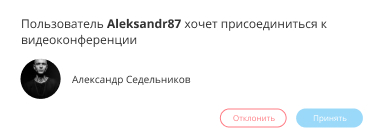
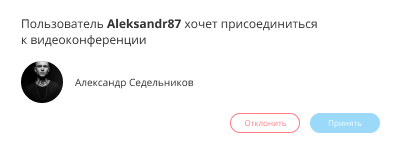
feat: верстка блока security tablet-версии

diff --git a/build/css/styles.min.css b/build/css/styles.min.css
@@ -1,2 +1,2 @@
-html{line-height:1.15;-webkit-text-size-adjust:100%;-moz-text-size-adjust:100%;text-size-adjust:100%}body{min-height:100vh;text-rendering:optimizeSpeed;line-height:1.5}blockquote,body,button,dd,dl,figure,h1,h2,h3,h4,input,optgroup,p,select,textarea{margin:0}details,main{display:block}h1{font-size:2em;margin:.67em 0}hr{box-sizing:content-box;height:0;overflow:visible}code,kbd,pre,samp{font-family:monospace;font-size:1em}a{background-color:transparent}abbr[title]{border-bottom:none;text-decoration:underline}b,strong{font-weight:bolder}small{font-size:80%}sub,sup{font-size:75%;line-height:0;position:relative;vertical-align:baseline}sub{bottom:-.25em}sup{top:-.5em}img{border-style:none}button,input,optgroup,select,textarea{font-family:inherit;font-size:100%;line-height:1.15}button,input{overflow:visible}button,select{text-transform:none}[type=button],[type=reset],[type=submit],button{-webkit-appearance:button;-moz-appearance:button;appearance:button}[type=button]::-moz-focus-inner,[type=reset]::-moz-focus-inner,[type=submit]::-moz-focus-inner,button::-moz-focus-inner{border-style:none;padding:0}[type=button]:-moz-focusring,[type=reset]:-moz-focusring,[type=submit]:-moz-focusring,button:-moz-focusring{outline:ButtonText dotted 1px}fieldset{padding:.35em .75em .625em}legend{box-sizing:border-box;color:inherit;display:table;max-width:100%;padding:0;white-space:normal}progress{vertical-align:baseline}textarea{overflow:auto}[type=checkbox],[type=radio]{box-sizing:border-box;padding:0}[type=number]::-webkit-inner-spin-button,[type=number]::-webkit-outer-spin-button{height:auto}[type=search]{-webkit-appearance:textfield;-moz-appearance:textfield;appearance:textfield;outline-offset:-2px}[type=search]::-webkit-search-decoration{-webkit-appearance:none;appearance:none}::-webkit-file-upload-button{-webkit-appearance:button;appearance:button;font:inherit}summary{display:list-item}[hidden],template{display:none}ol,ul{list-style:none;margin:0;padding:0}@font-face{font-family:Montserrat;font-style:normal;font-weight:700;font-display:swap;src:url(../fonts/montserrat-bold.eot);src:local("Montserrat"),url(../fonts/montserrat-bold.woff2) format("woff2"),url(../fonts/montserrat-bold.woff) format("woff"),url(../fonts/montserrat-bold.ttf) format("truetype"),url(../fonts/montserrat-bold.svg) format("svg")}@font-face{font-family:Montserrat;font-style:normal;font-weight:500;font-display:swap;src:local("Montserrat"),url(../fonts/montserrat-medium.woff2) format("woff2"),url(../fonts/montserrat-medium.woff) format("woff"),url(../fonts/montserrat-medium.ttf) format("truetype"),url(../fonts/montserrat-medium.svg) format("svg")}@font-face{font-family:Montserrat;font-weight:600;font-style:normal;font-display:swap;src:local("Ubuntu"),url(../fonts/montserrat-semibold.woff2) format("woff2"),url(../fonts/montserrat-semibold.woff) format("woff"),url(../fonts/montserrat-semibold.ttf) format("truetype"),url(../fonts/montserrat-semibold.svg) format("svg")}@font-face{font-family:"Open Sans";font-weight:900;font-style:normal;font-display:swap;src:local("Open Sans"),url(../fonts/opensans-regular.woff2) format("woff2"),url(../fonts/opensans-regular.woff) format("woff"),url(../fonts/opensans-regular.ttf) format("truetype"),url(../fonts/opensans-regular.svg) format("svg")}.visually-hidden{position:absolute;width:1px;height:1px;margin:-1px;border:0;padding:0;white-space:nowrap;-webkit-clip-path:inset(100%);clip-path:inset(100%);clip:rect(0 0 0 0);overflow:hidden}.container{padding:0 20px}@media (min-width:768px){.container{padding:0 50px}}.page__container{min-width:320px;background:linear-gradient(52deg,#5540bf 58%,#afa1f9 100%);max-width:1440px;margin:0 auto;box-shadow:0 0 50px 0 rgba(34,60,80,.2)}.header__navigation{display:flex;align-items:center;justify-content:space-between;padding:10px 0;box-sizing:border-box}@media (min-width:768px){.header__navigation{padding:24px 51px}.header__menu-button{display:none}}.header__menu-button{color:none;background-color:transparent;border:none;padding:5px}.footer{background-color:#fff}.footer__container{display:flex;flex-direction:column;flex-wrap:wrap;align-items:center;justify-content:center;row-gap:15px;padding:31px 0 0}.footer__paragraph{font-family:"Open Sans";font-weight:400;font-size:16px;line-height:22px;color:#5540bf;word-break:break-word;text-align:center}.footer__socials{display:flex;flex-direction:row;flex-wrap:wrap;align-items:center;justify-content:center;-moz-column-gap:20px;column-gap:20px}.footer__link{color:#5540bf;text-decoration:none}.logo{display:block;height:45px;width:45px}@media (min-width:768px){.logo{height:70px;width:70px}}.logo__image{width:100%}.menu{font-family:Montserrat;font-weight:500;font-size:14px;line-height:17px;color:#fff;word-break:break-word;display:none}@media (min-width:768px){.menu{display:block;max-width:300px}}.menu__list{display:flex;flex-direction:row;flex-wrap:wrap;align-items:center;justify-content:center;-moz-column-gap:31px;column-gap:31px}.menu__item{display:block}.menu__link{text-decoration:none;color:inherit}.menu__close{color:none;background-color:transparent;border:none}@media (min-width:768px){.menu__close{display:none}}.introduction{display:flex;flex-direction:column;flex-wrap:wrap;align-items:center;justify-content:center;row-gap:18px;padding-top:41px}.introduction__title{font-family:Montserrat;font-weight:700;font-size:24px;line-height:32px;color:#fff;word-break:break-word;margin:0 23px;text-align:center}@media (min-width:768px){.introduction{padding-top:91px;display:flex;flex-direction:row;flex-wrap:wrap;align-items:center;justify-content:center;-moz-column-gap:37px;column-gap:37px;padding-bottom:30px}.introduction__title{font-family:Montserrat;font-weight:700;font-size:46px;line-height:52px;color:#fff;word-break:break-word;margin:0 11%;text-align:center}}.introduction__paragraph{font-family:"Open Sans";font-weight:400;font-size:13px;line-height:20px;color:#fff;word-break:break-word;text-align:center;margin:29px 23px}.introduction__paragraph:nth-of-type(2){margin:0 23px}@media (min-width:768px){.introduction__paragraph:nth-of-type(2){font-family:"Open Sans";font-weight:400;font-size:14px;line-height:18px;color:#fff;word-break:break-word;text-align:center;margin:0 26%}.introduction__paragraph{font-family:"Open Sans";font-weight:400;font-size:20px;line-height:28px;color:#fff;word-break:break-word;text-align:center;margin:16px 14% 45px;width:100%}}.introduction__link{display:block;font-family:Montserrat;font-weight:600;outline:0;font-size:12px;line-height:15px;word-break:break-word;box-sizing:border-box;padding:13px;text-align:center;text-transform:uppercase;text-decoration:none;min-height:41px;border-radius:5px;width:222px}@media (min-width:768px){.introduction__link{padding:15px;width:185px}}.introduction__link--colored{color:#5540bf;background-color:#fff;border:none}.introduction__link--uncolored{color:#fff;background-color:transparent;border:1px solid #fff}.introduction__image-wrapper{width:100%;padding:53px 22px 64px;box-sizing:border-box}.introduction__image-block{position:relative;display:flex;flex-direction:column;flex-wrap:wrap;max-width:380px;max-height:1050px;margin:0 auto;row-gap:31px;z-index:1}.introduction__picture--1{align-self:flex-start}.introduction__picture--1::before{content:"";position:absolute;top:-16px;left:-24px;background-image:url(../images/dots-2.svg);background-repeat:no-repeat;width:101px;height:39px;z-index:-1}.introduction__picture--2{align-self:flex-end}.introduction__picture--2::before{content:"";position:absolute;bottom:-17px;right:-23px;background-image:url(../images/dots-1.svg);background-repeat:no-repeat;width:73px;height:59px;z-index:-1}.introduction__picture--2::after{content:"";position:absolute;bottom:141px;right:-23px;background-image:url(../images/figure-3.svg);background-repeat:no-repeat;width:102px;height:101px;z-index:-1}.introduction__picture--3{display:none}@media (min-width:768px){.introduction__image-wrapper{padding:71px 22px 150px}.introduction__image-block{max-width:465px}.introduction__picture--2{position:absolute;top:125px;right:-3px;z-index:-2}.introduction__picture--2::after{bottom:248px;right:-21px}.introduction__picture--3{display:block;position:absolute;bottom:-90px;left:71px}.introduction__picture--3::after{content:"";position:absolute;bottom:-18px;right:-23px;background-image:url(../images/dots-1.svg);background-repeat:no-repeat;width:73px;height:60px;z-index:-1}}.introduction__image--2{position:absolute;top:32%;left:50%;transform:translateX(-50%);min-width:140px;max-width:271px}.introduction__image--3{border-radius:5px}.introduction__image--4{border-radius:10px}.features{background:rgba(255,255,255,.1)}.features__list{display:flex;flex-direction:column;flex-wrap:wrap;align-items:center;justify-content:center;row-gap:14px;padding:38px 0}@media (min-width:768px){.introduction__image--2{top:68px;left:56%;max-width:140px}.features__list{display:flex;flex-direction:row;flex-wrap:wrap;align-items:center;justify-content:space-evenly;padding:73px 12px;row-gap:30px;-moz-column-gap:20px;column-gap:20px}}.features__item{font-family:Montserrat;font-weight:600;font-size:10px;line-height:12px;color:#fff;word-break:break-word;border:2px solid #fff;border-radius:100px;box-sizing:border-box;padding:16px;width:227px;text-align:center;text-transform:uppercase}.features__item--active{border:2px solid #ffd100;color:#ffd100}@media (min-width:768px){.features__item{width:auto;padding:18px 40px}}.group-calls{display:flex;flex-direction:column;flex-wrap:wrap;align-items:center;justify-content:center;background-color:#fff;background-image:url(../images/figure-1.svg);background-repeat:no-repeat;background-position:-350px -330px;background-size:cover;padding-top:46px;padding-bottom:57px}.group-calls__title{font-family:Montserrat;font-weight:700;font-size:17px;line-height:28px;color:#000;word-break:break-word;margin:0;text-align:center}@media (min-width:768px){.group-calls{padding-top:92px;align-items:flex-start;row-gap:32px;background-position:-273px -197px;background-size:974px 1024px}.group-calls__title{font-family:Montserrat;font-weight:700;font-size:36px;line-height:42px;color:#000;word-break:break-word;margin:0 66px;text-align:left}}.group-calls__paragraph{font-family:"Open Sans";font-weight:400;font-size:16px;line-height:26px;color:#000;word-break:break-word;text-align:center;margin:44px 23px}@media (min-width:768px){.group-calls__paragraph{font-family:"Open Sans";font-weight:400;font-size:18px;line-height:28px;color:#000;word-break:break-word;text-align:left;margin:0 66px 11px}}.group-calls__link{display:block;font-family:Montserrat;font-weight:600;outline:0;font-size:12px;line-height:15px;word-break:break-word;box-sizing:border-box;padding:13px;text-align:center;text-transform:uppercase;text-decoration:none;min-height:41px;border-radius:5px;color:#fff;background-color:#5540bf;border:none}@media (min-width:768px){.group-calls__link{padding:16px 33px 14px 34px;margin-left:66px}}.group-calls__image-wrapper{width:100%;box-sizing:border-box;margin:94px 0 111px}@media (min-width:768px){.group-calls__image-wrapper{margin:63px 0 111px}}.group-calls__image-block{position:relative;margin:0 auto;max-width:430px}.group-calls__picture{display:block;height:300px;margin:0 auto}.group-calls__picture--1{position:relative;width:-webkit-min-content;width:-moz-min-content;width:min-content}.group-calls__picture--1::before{position:absolute;top:0;left:50%;transform:translateX(-50%);content:"";height:100%;width:100%;background:linear-gradient(120deg,rgba(51,51,51,0) 35%,#333 99%);border-radius:20px}.group-calls__picture--1::after{position:absolute;bottom:0;left:50%;transform:translateX(-50%);content:"";height:38px;width:104px;background:url(../images/icons/disable-video-icon.svg) no-repeat,url(../images/icons/disable-call-icon.svg) 37px 0 no-repeat,url(../images/icons/mute-icon.svg) 75px 0 no-repeat}.group-calls__picture--2{position:absolute;top:162px;left:100%;transform:translate(-100%)}.group-calls__image{box-shadow:0 0 20px rgba(0,0,0,.2)}.group-calls__image--1{border-radius:20px}.group-calls__image--2{border-radius:15px 15px 10px 10px}.security{display:flex;flex-direction:column;flex-wrap:wrap;align-items:center;justify-content:center;background-color:#fff;padding-top:45px}.security__title{font-family:Montserrat;font-weight:700;font-size:17px;line-height:28px;color:#000;word-break:break-word;margin:0;text-align:center}.security__paragraph{font-family:"Open Sans";font-weight:400;font-size:16px;line-height:26px;color:#000;word-break:break-word;text-align:center;margin:45px 15px}.security__link{display:block;font-family:Montserrat;font-weight:600;outline:0;font-size:12px;line-height:15px;word-break:break-word;box-sizing:border-box;padding:13px;text-align:center;text-transform:uppercase;text-decoration:none;min-height:41px;border-radius:5px;color:#fff;background-color:#5540bf;border:none;width:222px}@media (min-width:768px){.group-calls__image-block{max-width:900px}.group-calls__picture--1{height:400px}.group-calls__picture--2{top:52px;left:auto;right:-188px}.security__link{padding:15px}}.security__image-wrapper{width:100%;margin:88px auto 50px}.security__image-block{position:relative;display:flex;flex-direction:column;flex-wrap:wrap;max-width:488px;max-height:1050px;margin:0 auto}.security__picture--1{position:relative;width:-webkit-min-content;width:-moz-min-content;width:min-content;margin:0 auto}.security__picture--1::before{position:absolute;top:0;left:50%;transform:translateX(-50%);content:"";height:100%;width:100%;background:linear-gradient(120deg,rgba(51,51,51,0) 35%,#333 99%);border-radius:20px}.security__picture--1::after{position:absolute;bottom:0;left:50%;transform:translateX(-50%);content:"";height:38px;width:104px;background:url(../images/icons/disable-video-icon.svg) no-repeat,url(../images/icons/disable-call-icon.svg) 37px 0 no-repeat,url(../images/icons/mute-icon.svg) 75px 0 no-repeat}.security__picture--2{position:relative;margin-right:28px}.security__image{display:block}.security__image--1{margin:0 auto;border-radius:20px;box-shadow:0 0 20px rgba(0,0,0,.2)}.security__image--2{position:absolute;top:-137px;left:100%;transform:translateX(-100%);border-radius:10px;box-shadow:0 0 20px rgba(0,0,0,.2)}.access{display:flex;flex-direction:column;flex-wrap:wrap;align-items:center;justify-content:center;row-gap:18px;background-color:#fff;padding-top:49px;padding-bottom:32px}.access__title{font-family:Montserrat;font-weight:700;font-size:17px;line-height:28px;color:#000;word-break:break-word;margin:0 17px;text-align:center}.access__paragraph{font-family:"Open Sans";font-weight:400;font-size:16px;line-height:26px;color:#000;word-break:break-word;text-align:center;margin:26px 15px}.access__link{display:block;font-family:Montserrat;font-weight:600;outline:0;font-size:12px;line-height:15px;word-break:break-word;box-sizing:border-box;padding:13px;text-align:center;text-transform:uppercase;text-decoration:none;min-height:41px;border-radius:5px;width:222px}@media (min-width:768px){.access__link{padding:15px}}.access__link--colored{color:#fff;background-color:#5540bf;border:none}.access__link--uncolored{color:#5540bf;background-color:transparent;border:1px solid #5540bf}.access__image-wrapper{width:100%;box-sizing:border-box;padding:49px 48px 0 0}.access__image-block{position:relative;display:flex;flex-direction:column;flex-wrap:wrap;max-width:300px;max-height:1050px;margin:88px auto 30px}.access__picture--2{position:relative;margin-right:28px}.access__image{display:block}.access__image--1{margin:0 auto;box-shadow:0 0 20px rgba(0,0,0,.2);max-width:250px}.access__image--2{position:absolute;top:-259px;left:100%;transform:translateX(-100%);border-radius:18px;box-shadow:0 0 20px rgba(0,0,0,.2);margin-left:69px;outline:#fff solid 2px}.streams{display:flex;flex-direction:column;flex-wrap:wrap;align-items:center;justify-content:center;padding-top:47px}.streams__title{font-family:Montserrat;font-weight:700;font-size:24px;line-height:32px;color:#fff;word-break:break-word;margin:0;text-align:center}.streams__paragraph{font-family:"Open Sans";font-weight:400;font-size:16px;line-height:26px;color:#fff;word-break:break-word;text-align:center;margin:44px 18px}.streams__link{display:block;font-family:Montserrat;font-weight:600;outline:0;font-size:12px;line-height:15px;word-break:break-word;box-sizing:border-box;padding:13px;text-align:center;text-transform:uppercase;text-decoration:none;min-height:41px;border-radius:5px;width:222px}@media (min-width:768px){.streams__link{padding:15px}}.streams__link--colored{color:#5540bf;background-color:#fff;border:none}.streams__image-wrapper{position:relative;width:100%;overflow:hidden;margin:90px 0 65px;border-radius:10px}.streams__image-wrapper::after{position:absolute;left:50%;transform:translateX(-50%);content:"";height:38px;width:104px;background:url(../images/icons/disable-video-icon.svg) no-repeat,url(../images/icons/disable-call-icon.svg) 37px 0 no-repeat,url(../images/icons/mute-icon.svg) 75px 0 no-repeat;bottom:5px}.streams__picture{display:block;position:relative;width:-webkit-min-content;width:-moz-min-content;width:min-content;margin:0 auto;box-shadow:0 0 20px rgba(0,0,0,.2)}.streams__picture::before{position:absolute;top:14px;left:13px;content:"";width:50px;height:10px;background:url(../images/dots-4.svg) no-repeat}.streams__image{display:block;border-radius:10px}
+html{line-height:1.15;-webkit-text-size-adjust:100%;-moz-text-size-adjust:100%;text-size-adjust:100%}body{min-height:100vh;text-rendering:optimizeSpeed;line-height:1.5}blockquote,body,button,dd,dl,figure,h1,h2,h3,h4,input,optgroup,p,select,textarea{margin:0}details,main{display:block}h1{font-size:2em;margin:.67em 0}hr{box-sizing:content-box;height:0;overflow:visible}code,kbd,pre,samp{font-family:monospace;font-size:1em}a{background-color:transparent}abbr[title]{border-bottom:none;text-decoration:underline}b,strong{font-weight:bolder}small{font-size:80%}sub,sup{font-size:75%;line-height:0;position:relative;vertical-align:baseline}sub{bottom:-.25em}sup{top:-.5em}img{border-style:none}button,input,optgroup,select,textarea{font-family:inherit;font-size:100%;line-height:1.15}button,input{overflow:visible}button,select{text-transform:none}[type=button],[type=reset],[type=submit],button{-webkit-appearance:button;-moz-appearance:button;appearance:button}[type=button]::-moz-focus-inner,[type=reset]::-moz-focus-inner,[type=submit]::-moz-focus-inner,button::-moz-focus-inner{border-style:none;padding:0}[type=button]:-moz-focusring,[type=reset]:-moz-focusring,[type=submit]:-moz-focusring,button:-moz-focusring{outline:ButtonText dotted 1px}fieldset{padding:.35em .75em .625em}legend{box-sizing:border-box;color:inherit;display:table;max-width:100%;padding:0;white-space:normal}progress{vertical-align:baseline}textarea{overflow:auto}[type=checkbox],[type=radio]{box-sizing:border-box;padding:0}[type=number]::-webkit-inner-spin-button,[type=number]::-webkit-outer-spin-button{height:auto}[type=search]{-webkit-appearance:textfield;-moz-appearance:textfield;appearance:textfield;outline-offset:-2px}[type=search]::-webkit-search-decoration{-webkit-appearance:none;appearance:none}::-webkit-file-upload-button{-webkit-appearance:button;appearance:button;font:inherit}summary{display:list-item}[hidden],template{display:none}ol,ul{list-style:none;margin:0;padding:0}@font-face{font-family:Montserrat;font-style:normal;font-weight:700;font-display:swap;src:url(../fonts/montserrat-bold.eot);src:local("Montserrat"),url(../fonts/montserrat-bold.woff2) format("woff2"),url(../fonts/montserrat-bold.woff) format("woff"),url(../fonts/montserrat-bold.ttf) format("truetype"),url(../fonts/montserrat-bold.svg) format("svg")}@font-face{font-family:Montserrat;font-style:normal;font-weight:500;font-display:swap;src:local("Montserrat"),url(../fonts/montserrat-medium.woff2) format("woff2"),url(../fonts/montserrat-medium.woff) format("woff"),url(../fonts/montserrat-medium.ttf) format("truetype"),url(../fonts/montserrat-medium.svg) format("svg")}@font-face{font-family:Montserrat;font-weight:600;font-style:normal;font-display:swap;src:local("Ubuntu"),url(../fonts/montserrat-semibold.woff2) format("woff2"),url(../fonts/montserrat-semibold.woff) format("woff"),url(../fonts/montserrat-semibold.ttf) format("truetype"),url(../fonts/montserrat-semibold.svg) format("svg")}@font-face{font-family:"Open Sans";font-weight:900;font-style:normal;font-display:swap;src:local("Open Sans"),url(../fonts/opensans-regular.woff2) format("woff2"),url(../fonts/opensans-regular.woff) format("woff"),url(../fonts/opensans-regular.ttf) format("truetype"),url(../fonts/opensans-regular.svg) format("svg")}.visually-hidden{position:absolute;width:1px;height:1px;margin:-1px;border:0;padding:0;white-space:nowrap;-webkit-clip-path:inset(100%);clip-path:inset(100%);clip:rect(0 0 0 0);overflow:hidden}.container{padding:0 20px}@media (min-width:768px){.container{padding:0 50px}}.page__container{min-width:320px;background:linear-gradient(52deg,#5540bf 58%,#afa1f9 100%);max-width:1440px;margin:0 auto;box-shadow:0 0 50px 0 rgba(34,60,80,.2)}.header__navigation{display:flex;align-items:center;justify-content:space-between;padding:10px 0;box-sizing:border-box}@media (min-width:768px){.header__navigation{padding:24px 51px}.header__menu-button{display:none}}.header__menu-button{color:none;background-color:transparent;border:none;padding:5px}.footer{background-color:#fff}.footer__container{display:flex;flex-direction:column;flex-wrap:wrap;align-items:center;justify-content:center;row-gap:15px;padding:31px 0 0}.footer__paragraph{font-family:"Open Sans";font-weight:400;font-size:16px;line-height:22px;color:#5540bf;word-break:break-word;text-align:center}.footer__socials{display:flex;flex-direction:row;flex-wrap:wrap;align-items:center;justify-content:center;-moz-column-gap:20px;column-gap:20px}.footer__link{color:#5540bf;text-decoration:none}.logo{display:block;height:45px;width:45px}@media (min-width:768px){.logo{height:70px;width:70px}}.logo__image{width:100%}.menu{font-family:Montserrat;font-weight:500;font-size:14px;line-height:17px;color:#fff;word-break:break-word;display:none}@media (min-width:768px){.menu{display:block;max-width:300px}}.menu__list{display:flex;flex-direction:row;flex-wrap:wrap;align-items:center;justify-content:center;-moz-column-gap:31px;column-gap:31px}.menu__item{display:block}.menu__link{text-decoration:none;color:inherit}.menu__close{color:none;background-color:transparent;border:none}@media (min-width:768px){.menu__close{display:none}}.introduction{display:flex;flex-direction:column;flex-wrap:wrap;align-items:center;justify-content:center;row-gap:18px;padding-top:41px}.introduction__title{font-family:Montserrat;font-weight:700;font-size:24px;line-height:32px;color:#fff;word-break:break-word;margin:0 23px;text-align:center}@media (min-width:768px){.introduction{padding-top:91px;display:flex;flex-direction:row;flex-wrap:wrap;align-items:center;justify-content:center;-moz-column-gap:37px;column-gap:37px;padding-bottom:30px}.introduction__title{font-family:Montserrat;font-weight:700;font-size:46px;line-height:52px;color:#fff;word-break:break-word;margin:0 11%;text-align:center}}.introduction__paragraph{font-family:"Open Sans";font-weight:400;font-size:13px;line-height:20px;color:#fff;word-break:break-word;text-align:center;margin:29px 23px}.introduction__paragraph:nth-of-type(2){margin:0 23px}@media (min-width:768px){.introduction__paragraph:nth-of-type(2){font-family:"Open Sans";font-weight:400;font-size:14px;line-height:18px;color:#fff;word-break:break-word;text-align:center;margin:0 26%}.introduction__paragraph{font-family:"Open Sans";font-weight:400;font-size:20px;line-height:28px;color:#fff;word-break:break-word;text-align:center;margin:16px 14% 45px;width:100%}}.introduction__link{display:block;font-family:Montserrat;font-weight:600;outline:0;font-size:12px;line-height:15px;word-break:break-word;box-sizing:border-box;padding:13px;text-align:center;text-transform:uppercase;text-decoration:none;min-height:41px;border-radius:5px;width:222px}@media (min-width:768px){.introduction__link{padding:15px;width:185px}}.introduction__link--colored{color:#5540bf;background-color:#fff;border:none}.introduction__link--uncolored{color:#fff;background-color:transparent;border:1px solid #fff}.introduction__image-wrapper{width:100%;padding:53px 22px 64px;box-sizing:border-box}.introduction__image-block{position:relative;display:flex;flex-direction:column;flex-wrap:wrap;max-width:380px;max-height:1050px;margin:0 auto;row-gap:31px;z-index:1}.introduction__picture--1{align-self:flex-start}.introduction__picture--1::before{content:"";position:absolute;top:-16px;left:-24px;background-image:url(../images/dots-2.svg);background-repeat:no-repeat;width:101px;height:39px;z-index:-1}.introduction__picture--2{align-self:flex-end}.introduction__picture--2::before{content:"";position:absolute;bottom:-17px;right:-23px;background-image:url(../images/dots-1.svg);background-repeat:no-repeat;width:73px;height:59px;z-index:-1}.introduction__picture--2::after{content:"";position:absolute;bottom:141px;right:-23px;background-image:url(../images/figure-3.svg);background-repeat:no-repeat;width:102px;height:101px;z-index:-1}.introduction__picture--3{display:none}@media (min-width:768px){.introduction__image-wrapper{padding:71px 22px 150px}.introduction__image-block{max-width:465px}.introduction__picture--2{position:absolute;top:125px;right:-3px;z-index:-2}.introduction__picture--2::after{bottom:248px;right:-21px}.introduction__picture--3{display:block;position:absolute;bottom:-90px;left:71px}.introduction__picture--3::after{content:"";position:absolute;bottom:-18px;right:-23px;background-image:url(../images/dots-1.svg);background-repeat:no-repeat;width:73px;height:60px;z-index:-1}}.introduction__image--2{position:absolute;top:32%;left:50%;transform:translateX(-50%);min-width:140px;max-width:271px}.introduction__image--3{border-radius:5px}.introduction__image--4{border-radius:10px}.features{background:rgba(255,255,255,.1)}.features__list{display:flex;flex-direction:column;flex-wrap:wrap;align-items:center;justify-content:center;row-gap:14px;padding:38px 0}@media (min-width:768px){.introduction__image--2{top:68px;left:56%;max-width:140px}.features__list{display:flex;flex-direction:row;flex-wrap:wrap;align-items:center;justify-content:space-evenly;padding:73px 12px;row-gap:30px;-moz-column-gap:20px;column-gap:20px}}.features__item{font-family:Montserrat;font-weight:600;font-size:10px;line-height:12px;color:#fff;word-break:break-word;border:2px solid #fff;border-radius:100px;box-sizing:border-box;padding:16px;width:227px;text-align:center;text-transform:uppercase}.features__item--active{border:2px solid #ffd100;color:#ffd100}@media (min-width:768px){.features__item{width:auto;padding:18px 40px}}.group-calls{display:flex;flex-direction:column;flex-wrap:wrap;align-items:center;justify-content:center;background-color:#fff;background-image:url(../images/figure-1.svg);background-repeat:no-repeat;background-position:-350px -330px;background-size:cover;padding-top:46px;padding-bottom:57px}.group-calls__title{font-family:Montserrat;font-weight:700;font-size:17px;line-height:28px;color:#000;word-break:break-word;margin:0;text-align:center}@media (min-width:768px){.group-calls{padding-top:92px;align-items:flex-start;row-gap:32px;background-position:-273px -197px;background-size:974px 1024px}.group-calls__title{font-family:Montserrat;font-weight:700;font-size:36px;line-height:42px;color:#000;word-break:break-word;margin:0 66px;text-align:left}}.group-calls__paragraph{font-family:"Open Sans";font-weight:400;font-size:16px;line-height:26px;color:#000;word-break:break-word;text-align:center;margin:44px 23px}@media (min-width:768px){.group-calls__paragraph{font-family:"Open Sans";font-weight:400;font-size:18px;line-height:28px;color:#000;word-break:break-word;text-align:left;margin:0 66px 11px}}.group-calls__link{display:block;font-family:Montserrat;font-weight:600;outline:0;font-size:12px;line-height:15px;word-break:break-word;box-sizing:border-box;padding:13px;text-align:center;text-transform:uppercase;text-decoration:none;min-height:41px;border-radius:5px;color:#fff;background-color:#5540bf;border:none}@media (min-width:768px){.group-calls__link{padding:16px 33px 14px 34px;margin-left:66px}}.group-calls__image-wrapper{width:100%;box-sizing:border-box;margin:94px 0 111px}@media (min-width:768px){.group-calls__image-wrapper{margin:63px 0 111px}}.group-calls__image-block{position:relative;margin:0 auto;max-width:430px}.group-calls__picture{display:block;height:300px;margin:0 auto}.group-calls__picture--1{position:relative;width:-webkit-min-content;width:-moz-min-content;width:min-content}.group-calls__picture--1::before{position:absolute;top:0;left:50%;transform:translateX(-50%);content:"";height:100%;width:100%;background:linear-gradient(120deg,rgba(51,51,51,0) 35%,#333 99%);border-radius:20px}.group-calls__picture--1::after{position:absolute;bottom:0;left:50%;transform:translateX(-50%);content:"";height:38px;width:104px;background:url(../images/icons/disable-video-icon.svg) no-repeat,url(../images/icons/disable-call-icon.svg) 37px 0 no-repeat,url(../images/icons/mute-icon.svg) 75px 0 no-repeat}.group-calls__picture--2{position:absolute;top:162px;left:100%;transform:translate(-100%)}.group-calls__image{box-shadow:0 0 20px rgba(0,0,0,.2)}.group-calls__image--1{border-radius:20px}.group-calls__image--2{border-radius:15px 15px 10px 10px}.security{display:flex;flex-direction:column;flex-wrap:wrap;align-items:center;justify-content:center;background-color:#fff;padding-top:45px}.security__title{font-family:Montserrat;font-weight:700;font-size:17px;line-height:28px;color:#000;word-break:break-word;margin:0;text-align:center}@media (min-width:768px){.group-calls__image-block{max-width:900px}.group-calls__picture--1{height:400px}.group-calls__picture--2{top:52px;left:auto;right:-188px}.security{align-items:flex-start;padding-top:62px}.security__title{font-family:Montserrat;font-weight:700;font-size:36px;line-height:42px;color:#000;word-break:break-word;margin:0 65px;text-align:center}}.security__paragraph{font-family:"Open Sans";font-weight:400;font-size:16px;line-height:26px;color:#000;word-break:break-word;text-align:center;margin:45px 15px}@media (min-width:768px){.security__paragraph{font-family:"Open Sans";font-weight:400;font-size:18px;line-height:28px;color:#000;word-break:break-word;text-align:left;margin:74px 90px 43px 66px}}.security__link{display:block;font-family:Montserrat;font-weight:600;outline:0;font-size:12px;line-height:15px;word-break:break-word;box-sizing:border-box;padding:13px;text-align:center;text-transform:uppercase;text-decoration:none;min-height:41px;border-radius:5px;color:#fff;background-color:#5540bf;border:none}@media (min-width:768px){.security__link{padding:17px 33px 13px 34px;margin-left:60px}}.security__image-wrapper{width:100%;margin:88px auto 50px}.security__image-block{position:relative;display:flex;flex-direction:column;flex-wrap:wrap;max-width:488px;margin:0 auto}.security__picture--1{position:relative;width:-webkit-min-content;width:-moz-min-content;width:min-content;margin:0 auto}.security__picture--1::before{position:absolute;top:0;left:50%;transform:translateX(-50%);content:"";height:100%;width:100%;background:linear-gradient(120deg,rgba(51,51,51,0) 35%,#333 99%);border-radius:20px}.security__picture--1::after{position:absolute;bottom:0;left:50%;transform:translateX(-50%);content:"";height:38px;width:104px;background:url(../images/icons/disable-video-icon.svg) no-repeat,url(../images/icons/disable-call-icon.svg) 37px 0 no-repeat,url(../images/icons/mute-icon.svg) 75px 0 no-repeat}.security__picture--2{position:relative;margin-right:28px}.security__image{display:block}.security__image--1{margin:0 auto;border-radius:20px;box-shadow:0 0 20px rgba(0,0,0,.2)}.security__image--2{position:absolute;top:-137px;left:100%;transform:translateX(-100%);border-radius:10px;box-shadow:0 0 20px rgba(0,0,0,.2)}.access{display:flex;flex-direction:column;flex-wrap:wrap;align-items:center;justify-content:center;row-gap:18px;background-color:#fff;padding-top:49px;padding-bottom:32px}.access__title{font-family:Montserrat;font-weight:700;font-size:17px;line-height:28px;color:#000;word-break:break-word;margin:0 17px;text-align:center}.access__paragraph{font-family:"Open Sans";font-weight:400;font-size:16px;line-height:26px;color:#000;word-break:break-word;text-align:center;margin:26px 15px}.access__link{display:block;font-family:Montserrat;font-weight:600;outline:0;font-size:12px;line-height:15px;word-break:break-word;box-sizing:border-box;padding:13px;text-align:center;text-transform:uppercase;text-decoration:none;min-height:41px;border-radius:5px;width:222px}@media (min-width:768px){.security__image-block{max-width:1000px}.security__image--2{top:-199px;left:107%}.access__link{padding:15px}}.access__link--colored{color:#fff;background-color:#5540bf;border:none}.access__link--uncolored{color:#5540bf;background-color:transparent;border:1px solid #5540bf}.access__image-wrapper{width:100%;box-sizing:border-box;padding:49px 48px 0 0}.access__image-block{position:relative;display:flex;flex-direction:column;flex-wrap:wrap;max-width:300px;max-height:1050px;margin:88px auto 30px}.access__picture--2{position:relative;margin-right:28px}.access__image{display:block}.access__image--1{margin:0 auto;box-shadow:0 0 20px rgba(0,0,0,.2);max-width:250px}.access__image--2{position:absolute;top:-259px;left:100%;transform:translateX(-100%);border-radius:18px;box-shadow:0 0 20px rgba(0,0,0,.2);margin-left:69px;outline:#fff solid 2px}.streams{display:flex;flex-direction:column;flex-wrap:wrap;align-items:center;justify-content:center;padding-top:47px}.streams__title{font-family:Montserrat;font-weight:700;font-size:24px;line-height:32px;color:#fff;word-break:break-word;margin:0;text-align:center}.streams__paragraph{font-family:"Open Sans";font-weight:400;font-size:16px;line-height:26px;color:#fff;word-break:break-word;text-align:center;margin:44px 18px}.streams__link{display:block;font-family:Montserrat;font-weight:600;outline:0;font-size:12px;line-height:15px;word-break:break-word;box-sizing:border-box;padding:13px;text-align:center;text-transform:uppercase;text-decoration:none;min-height:41px;border-radius:5px;width:222px}@media (min-width:768px){.streams__link{padding:15px}}.streams__link--colored{color:#5540bf;background-color:#fff;border:none}.streams__image-wrapper{position:relative;width:100%;overflow:hidden;margin:90px 0 65px;border-radius:10px}.streams__image-wrapper::after{position:absolute;left:50%;transform:translateX(-50%);content:"";height:38px;width:104px;background:url(../images/icons/disable-video-icon.svg) no-repeat,url(../images/icons/disable-call-icon.svg) 37px 0 no-repeat,url(../images/icons/mute-icon.svg) 75px 0 no-repeat;bottom:5px}.streams__picture{display:block;position:relative;width:-webkit-min-content;width:-moz-min-content;width:min-content;margin:0 auto;box-shadow:0 0 20px rgba(0,0,0,.2)}.streams__picture::before{position:absolute;top:14px;left:13px;content:"";width:50px;height:10px;background:url(../images/dots-4.svg) no-repeat}.streams__image{display:block;border-radius:10px}
 /*# sourceMappingURL=styles.min.css.map */

diff --git a/source/scss/blocks/security.scss b/source/scss/blocks/security.scss
@@ -2,21 +2,42 @@
   @include flex-container(column, center, center);
   background-color: $color3;
   padding-top: 45px;
+
+  @media (min-width: $tablet) {
+    align-items: flex-start;
+    padding-top: 62px;
+  }
 }
 
 .security__title {
   @include title (17px, 28px, $color8, 0);
+
+  @media (min-width: $tablet) {
+    @include title(36px, 42px, $color8, 0 65px);
+  }
 }
 
 .security__paragraph {
   @include paragraph(16px, 26px, $color8);
   margin: 45px 15px;
+
+  @media (min-width: $tablet) {
+    @include paragraph(18px, 28px, $color8);
+    text-align: left;;
+    margin: 74px 90px 43px 66px;
+  }
 }
 
 .security__link {
   @include button-link;
   @include button-link-modified($color3, $color1, none);
-  width: 222px;
+  // width: 222px;
+
+  @media (min-width: $tablet) {
+    padding: 17px 33px 13px 34px;
+    margin-left: 60px;
+  }
+
 }
 
 .security__image-wrapper {
@@ -30,8 +51,11 @@
   flex-direction: column;
   flex-wrap: wrap;
   max-width: 488px;
-  max-height: 1050px;
   margin: 0 auto;
+
+  @media (min-width: $tablet) {
+    max-width: 1000px
+  }
 }
 
 .security__picture {
@@ -71,6 +95,11 @@
     transform: translateX(-100%);
     border-radius: 10px;
     box-shadow: $box-shadow;
+
+    @media (min-width: $tablet) {
+      top: -199px;
+      left: 107%;
+    }
   }
 }
 

diff --git a/source/scss/blocks/introduction.scss b/source/scss/blocks/introduction.scss
@@ -15,7 +15,6 @@
   @include title(24px, 32px, $color3);
   text-align: center;
 
-
   @media (min-width: $tablet) {
     @include title(46px, 52px, $color3, 0 11%);
   }
